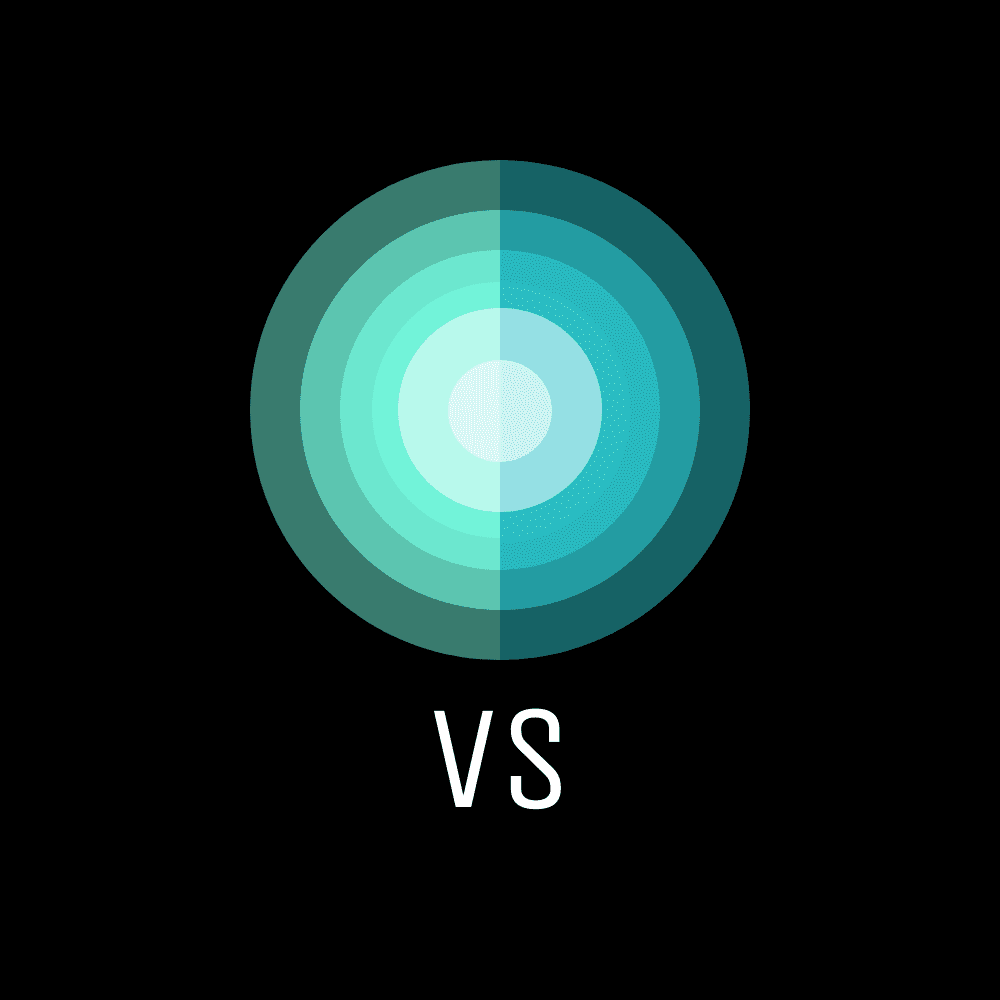
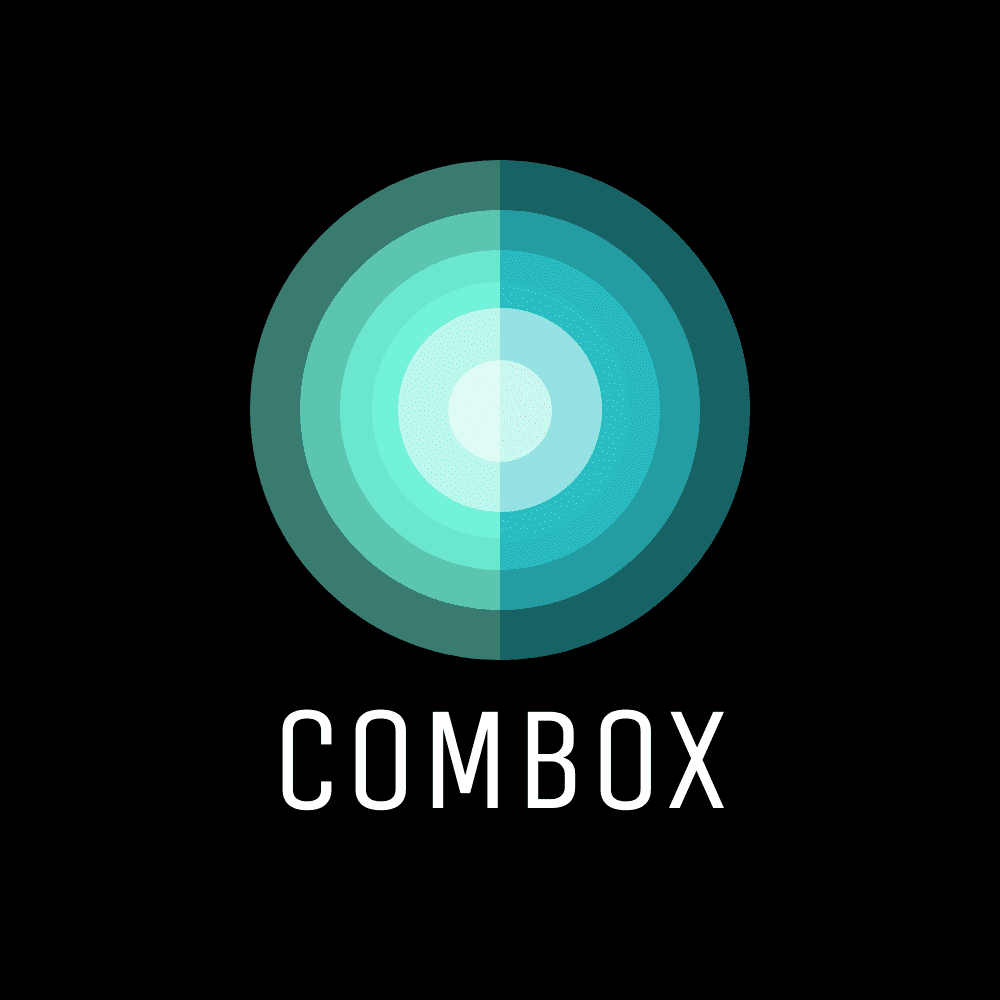
[update] changed service name to combox from vs

diff --git a/src/Home.vue b/src/Home.vue
@@ -1,9 +1,17 @@
 <template>
     <v-main>
-        <h2 class="text-center">「VS（バーサス）」について</h2>
+        <h2 class="text-center">「COMBOX」について</h2>
         <p class="py-5">
             当サイトは同じ分野のもの同士を比較することで人気や一般的な考え方を知ることを目標として作成しています。<br>
-            より多くのデータが集まればより自分が知りたい結果が知れると思うのでぜひご自身でも回答して友人にもシェアしてください。
+            より多くのデータが集まればより自分が知りたい結果が知れると思うのでぜひご自身でも回答して友人にもシェアしてください！
+            <v-row>
+                <v-col cols="6">
+                    <Twitter title="COMBOXで言語のトレンドがわかります！" :url="siteUrl"/>
+                </v-col>
+                <v-col cols="6">
+                    <Facebook />
+                </v-col>
+            </v-row>
         </p>
         <template v-if="players.length > 0">
             <div v-for="(pt, i) in players" v-bind:key="i">
@@ -29,18 +37,23 @@
 <script>
 import Language from './components/Home/Language';
 import Loading from './components/Common/Loading';
+import Twitter from './components/Share/Twitter';
+import Facebook from './components/Share/Facebook';
 import axios from 'axios';
 
 export default {
     components: {
         Language,
         Loading,
+        Twitter,
+        Facebook,
     },
     data () {
         return {
             title: null,
             playerType: {},
             players: [],
+            siteUrl: '',
         }
     },
     methods: {
@@ -70,6 +83,7 @@ export default {
     },
     mounted: function () {
         this.getType();
+        this.siteUrl = process.env.VUE_APP_URL;
     },
 }
 </script>

diff --git a/src/components/Share/Twitter.vue b/src/components/Share/Twitter.vue
@@ -23,7 +23,7 @@ export default {
     methods: {
         twitterShare() {
             //シェアする画面を設定
-            const shareURL = this.baseUrl+'?text='+this.title+"%0a最強言語決定戦！！%0a%20%23languagetournament"+'&url='+this.url;  
+            const shareURL = this.baseUrl+'?text='+this.title+"%0a最強言語決定戦！！%0a%20%23combox"+'&url='+this.url;  
            //シェア用の画面へ移行
             location.href = shareURL 
         },

diff --git a/src/components/Header.vue b/src/components/Header.vue
@@ -6,7 +6,7 @@
     >
       <div class="d-flex align-center">
         <v-img
-          alt="VS logo"
+          alt="COMBOX logo"
           class="shrink mr-2"
           contain
           src="../assets/logo_transparent.png"
@@ -17,7 +17,7 @@
       
       <v-spacer></v-spacer>
 
-      <v-toolbar-title>VS</v-toolbar-title>
+      <v-toolbar-title>COMBOX</v-toolbar-title>
 
       <v-spacer></v-spacer>
 
